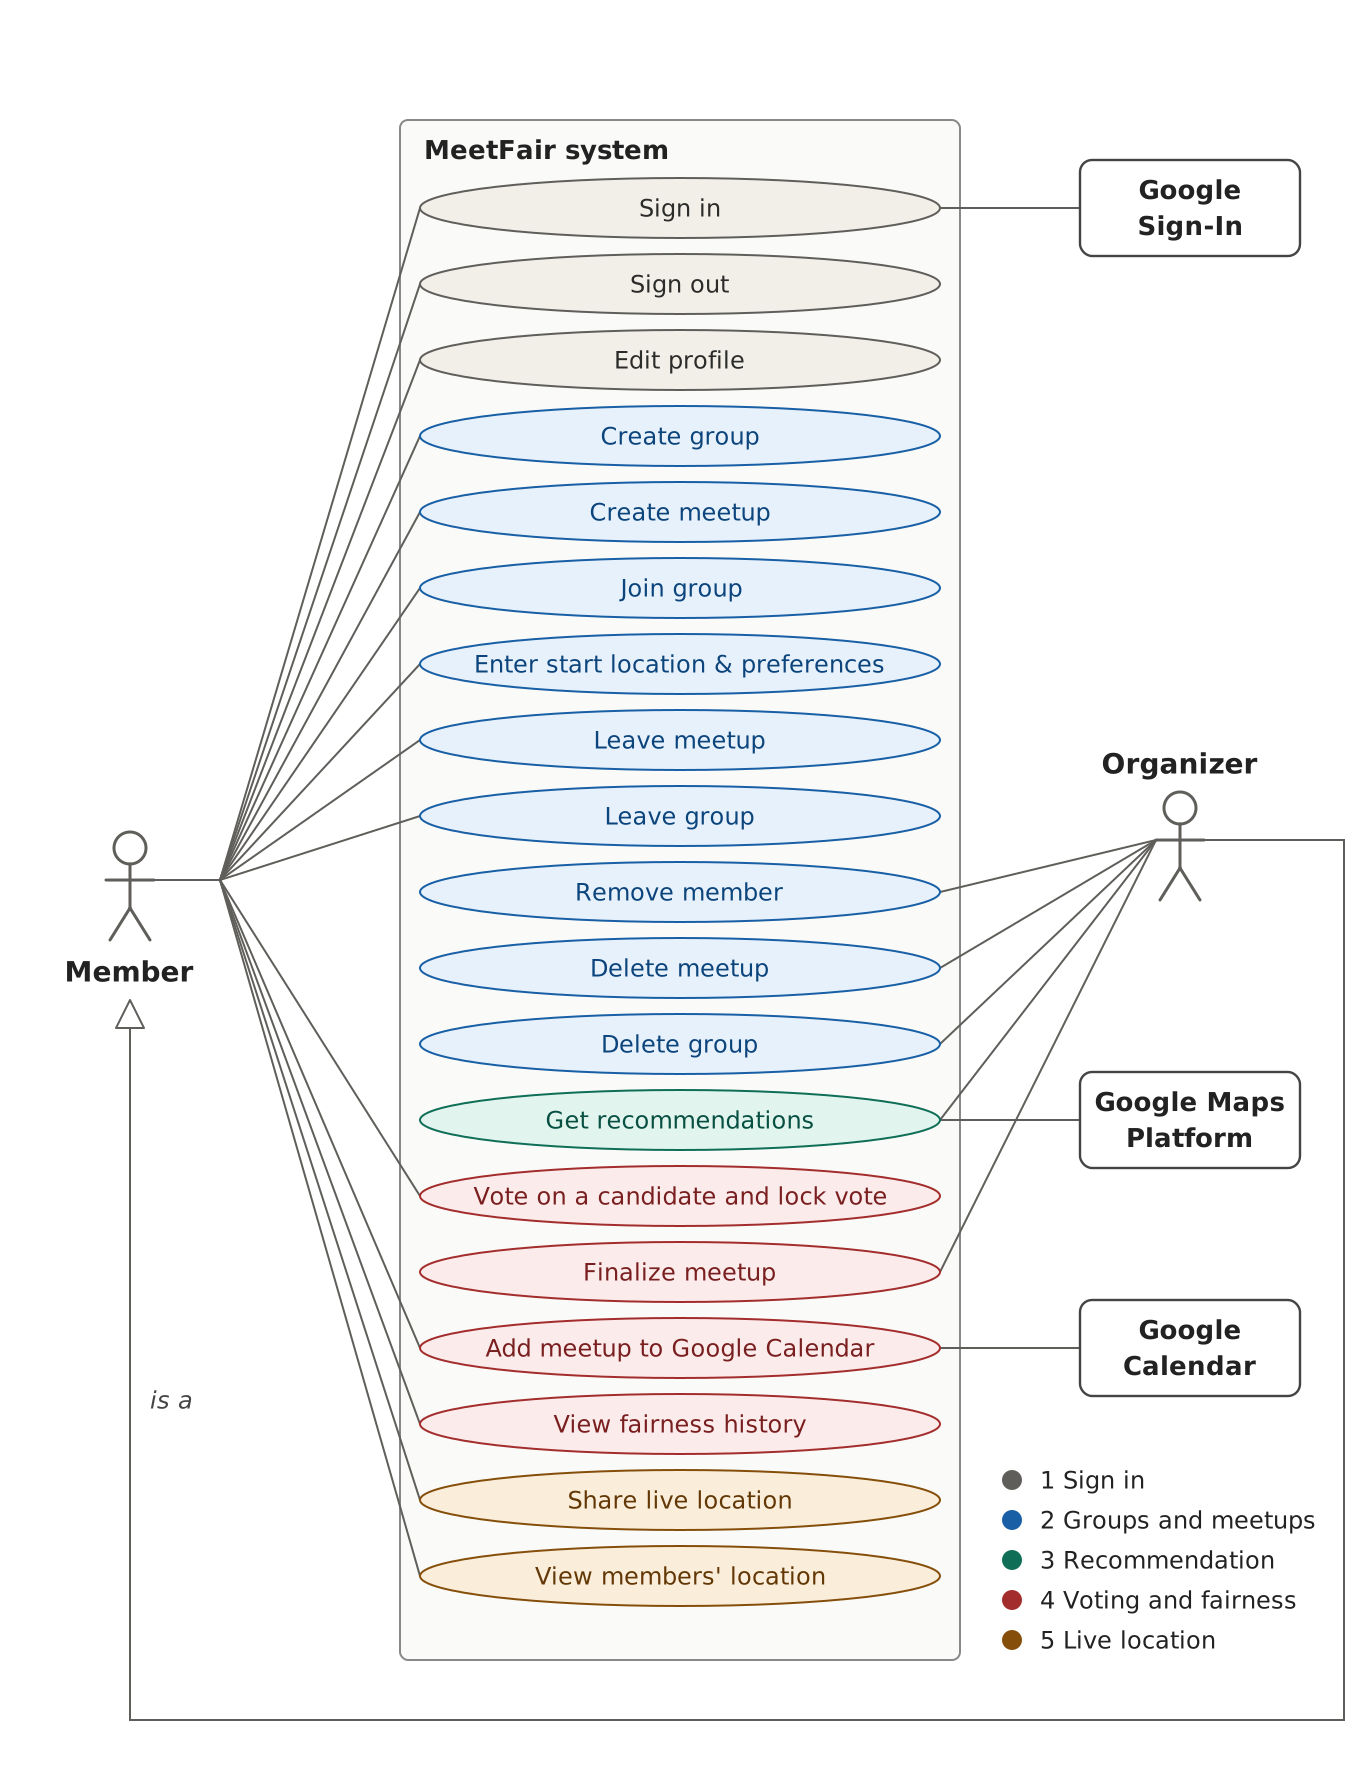
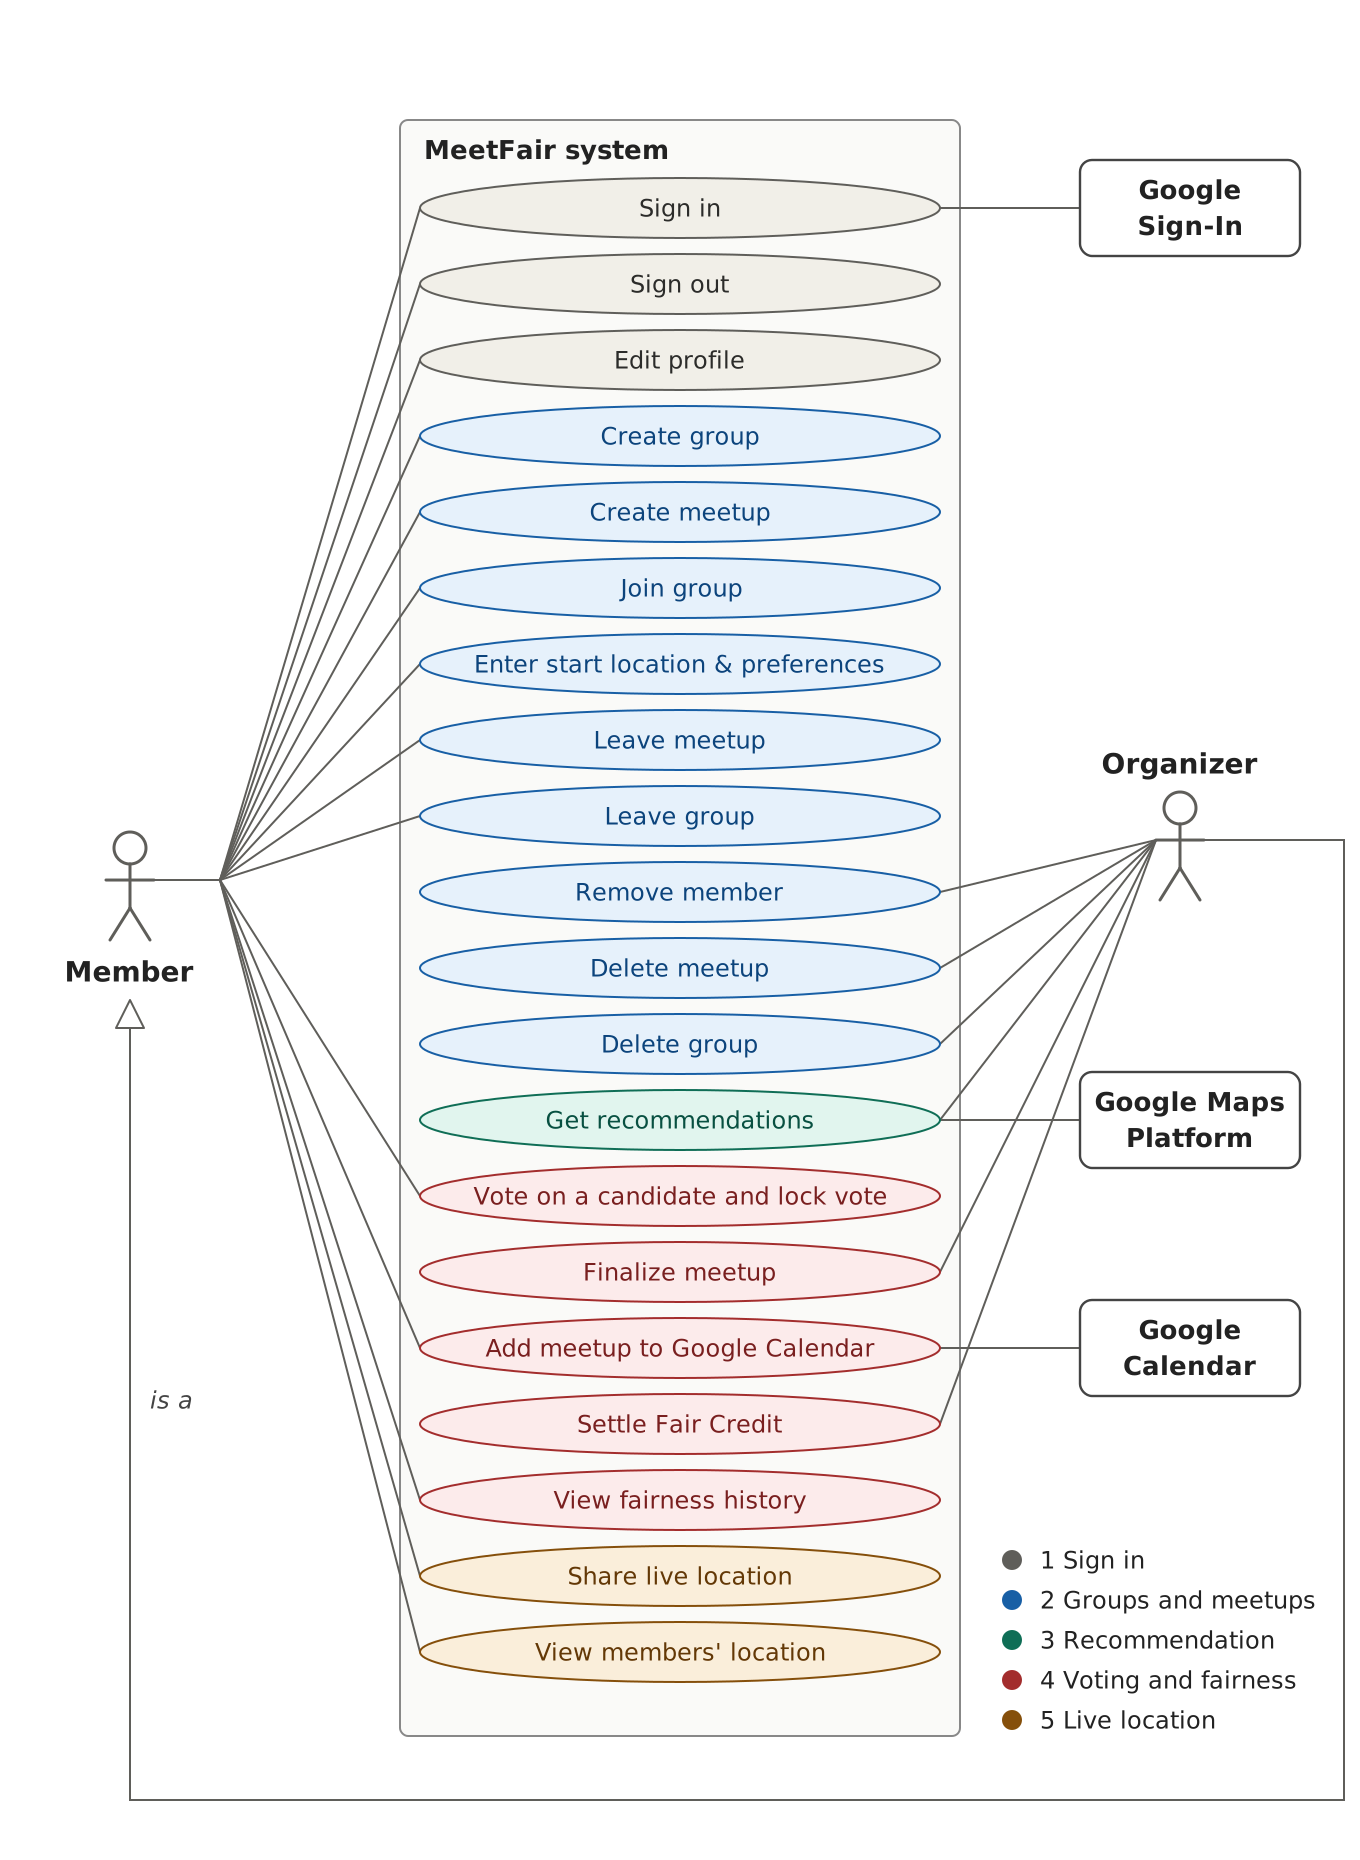
docs: add missing "Settle Fair Credit" use case

diff --git a/documentation/Testing.md b/documentation/Testing.md
@@ -40,7 +40,7 @@
 | **GET /api/meetups/:meetupId/votes**             | [`backend/tests/no-mock/voting.test.ts`](../backend/tests/no-mock/voting.test.ts)          | [`backend/tests/mock/voting.test.ts`](../backend/tests/mock/voting.test.ts)             | MongoDB Vote Collection (`VoteModel.find`), Recommendation Service (`recommendationService.getByMeetupId`) |
 | **POST /api/meetups/:meetupId/finalize**         | [`backend/tests/no-mock/voting.test.ts`](../backend/tests/no-mock/voting.test.ts)          | [`backend/tests/mock/voting.test.ts`](../backend/tests/mock/voting.test.ts)            | MongoDB Meetup Collection (`MeetupModel.findOneAndUpdate`), Recommendation Service (`recommendationService.getByMeetupId`) |
 | **tally / winner selection** *(internal)*        | [`backend/tests/unit/tally.test.ts`](../backend/tests/unit/tally.test.ts); [`backend/tests/no-mock/voting.test.ts`](../backend/tests/no-mock/voting.test.ts) | N/A | Pure tally and tie-breaking rules; no external dependencies |
-| **POST /api/meetups/:meetupId/settle**            | [`backend/tests/no-mock/settlement.test.ts`](../backend/tests/no-mock/settlement.test.ts) | N/A | Trip and Fair Credit settlement state |
+| **POST /api/meetups/:meetupId/settle**            | [`backend/tests/no-mock/settlement.test.ts`](../backend/tests/no-mock/settlement.test.ts) | N/A | Settlement eligibility, active-trip blocking, repeated and concurrent request idempotency, and recovery after partial failures |
 | **POST /api/meetups/:meetupId/calendar-event**   | [`backend/tests/no-mock/calendar.test.ts`](../backend/tests/no-mock/calendar.test.ts)         | [`backend/tests/mock/calendar.test.ts`](../backend/tests/mock/calendar.test.ts)           | Google Calendar Client (`calendarClient.createEvent`) |
 | **GET /api/users/me/profile**                    | [`backend/tests/no-mock/profile.test.ts`](../backend/tests/no-mock/profile.test.ts)          | [`backend/tests/mock/profile.test.ts`](../backend/tests/mock/profile.test.ts)            | MongoDB Fair Credit Collection (`FairCreditModel.find`), Group Service (`groupService.listForUser`) |
 | **PUT /api/users/me/profile**                    | [`backend/tests/no-mock/profile.test.ts`](../backend/tests/no-mock/profile.test.ts)          | [`backend/tests/mock/profile.test.ts`](../backend/tests/mock/profile.test.ts)            | MongoDB User Collection (`UserModel.findByIdAndUpdate`) |
@@ -371,7 +371,7 @@ Covers the Vote on a Candidate and Lock Vote use case.
 
 #### 4.2.3. Feature 4: Voting and Fairness (2) ([`FinalizeMeetupTest.kt`](../frontend/app/src/androidTest/java/com/example/cpen321application/e2e/FinalizeMeetupTest.kt))
 
-Covers formal Use Case 4 (Finalize Meetup), Calendar integration, and Section 3.4 Use Case 5 (View Fairness History).
+Covers Feature 4 use cases Finalize Meetup, Add Meetup to Google Calendar, View Fairness History, and Settle Fair Credit. The settlement and populated-history E2E flow is in [`ShareLiveLocationTest.kt`](../frontend/app/src/androidTest/java/com/example/cpen321application/e2e/ShareLiveLocationTest.kt), because it exercises the completed live trip before settlement.
 
 - **Expected Behaviors (Automated Single-User):**
 
@@ -425,7 +425,6 @@ Covers formal Use Case 4 (Finalize Meetup), Calendar integration, and Section 3.
   | **Failure 6a: Google Calendar consent canceled** (Use Case 4 Failure 6a) | On finalized meetup, tap "Add to Google Calendar". When the Google account permission prompt opens, tap "Cancel" or system Back. | App displays *"Google Calendar permission request was canceled."* and keeps the button enabled for retry. | Google OAuth permission dialog is an external Google Play Services / Chrome Custom Tab activity outside Compose test inspection. |
   | **Failure 7a: Google Calendar API rate limit / server failure** (Use Case 4 Failure 7a) | Simulate Google API error (e.g. 429 quota exhaustion) and tap "Add to Google Calendar". | App displays the error reason (e.g. *"Google Calendar API rate limit reached. Please retry in a few minutes."*); no event ID is saved. | Live Google API quota exhaustion cannot be triggered in automated production tests without risking quota throttling. Verified via mocks in [`calendar.test.ts`](../backend/tests/mock/calendar.test.ts). |
   | **Calendar Failure 7b: duplicate event request** (Use Case 4 Failure 7b) | Add a finalized meetup once through the GUI and verify it appears as "In calendar". The app replaces `add_to_calendar_button` with this status, so the GUI cannot submit a second add request. For the duplicate-request check, submit the same Calendar event request again using the meetup ID and an authorized access token. | The GUI shows "In calendar" after the first add. The repeated API request returns *"This meetup is already in your calendar"*. The request assertion in `calendar_duplicateEvent` is automated, but it is API-level; the GUI behavior remains a manual check. | The current UI removes the add button after success. The instrumentation method submits a repository request directly and does not exercise a second GUI tap. Backend behavior is covered in [`calendar.test.ts`](../backend/tests/no-mock/calendar.test.ts). |
-  | **View Fairness History: Settled meetup ledger entries** (Section 3.4 Use Case 5) | Complete a meetup through arrival, then as organizer trigger "Settle Fair Credit". Open Group Details -> "Fair Credits". | Screen displays the settled meetup ledger entry with commute duration, group average, and net credit adjustment. | `shareLocation_startTripArrive` checks arrival but does not settle or inspect the ledger. Settlement is currently covered by backend tests in [`settlement.test.ts`](../backend/tests/no-mock/settlement.test.ts); the complete GUI flow remains manual. |
 
 ---
 
@@ -437,12 +436,13 @@ Covers Share Live Location and View Members' Location.
 
   | **Scenario Steps** | **Test Case Steps** |
   | ------------------ | ------------------- |
-  | **Main Success Scenario: start trip, share live location, and arrive (steps 1–8)** (`shareLocation_startTripArrive`) | |
+  | **Main Success Scenario: start trip, share live location, arrive and settle Fair Credit (steps 1–9)** (`shareLocation_startTripArriveAndSettleFairCredit`) | |
   | 1. The participant opens the finalized meetup at its scheduled time. | Open finalized meetup scheduled 1 minute ahead. Wait for `leaving_button` ("I am leaving") to become available upon meetup time arrival, and click it. |
   | 2. The participant confirms live location sharing in the disclosure dialog. | Wait for "Share your live location?" explanation dialog. Click `share_trip_confirm` ("Share and start trip"). |
   | 3-4. System requests and participant grants runtime location permission. | Handle Android runtime permission prompt if presented ("While using the app"). |
   | 5-6. System starts trip, records start time, and shares live updates. | Open live location view. Check that `location_sharing_indicator` and `trip_status_text` ("On the way") are displayed. |
   | 8. The participant selects "I arrived"; system records arrival and stops sharing. | Click `arrived_button`. If the "Have you arrived?" confirmation appears, confirm "I arrived". Check that `trip_status_text` updates to "Arrived", `commute_duration_text` is displayed, and `location_sharing_indicator` is removed. |
+  | 9. The organizer settles Fair Credit and checks the updated history. | Confirm the settle dialog, then open Group Details -> "Fair Credits". Verify the meetup ledger entry and its expanded trip and group-average details. |
   | **Failure 1a: before scheduled meetup time** (`shareLocation_beforeMeetupTime`) | |
   | 1a. The participant views the finalized meetup 10 minutes before scheduled time. | Create and finalize a meetup scheduled 10 minutes in the future. Open the meetup screen. |
   | 1a1. The app does not offer "I am leaving". | Check that the button with test tag `leaving_button` does not exist. |
@@ -454,6 +454,8 @@ Covers Share Live Location and View Members' Location.
   | 6a/6b. Network drops while sharing live location during an active trip. | Start trip with live sharing active. Enable airplane mode with UiDevice. |
   | 6a1/6b1. The app displays connection loss and retry notices while keeping sharing active. | Wait for and check "Live connection unavailable. Refreshing periodically." (6a) and "Location update failed. Retrying..." (6b). Check that `location_sharing_indicator` remains displayed. |
   | 6a2/6b2. Connectivity is restored; sharing automatically resumes. | Disable airplane mode. Wait for sharing indicator to confirm recovery ("Sharing your live location" or "Waiting for a fresh location fix..."). |
+
+**Failure 9a: repeated settlement request (automated backend API coverage, not Android E2E).** The no-mock settlement suite submits repeated and concurrent `POST /api/meetups/:meetupId/settle` requests. [`concurrent settlement requests apply each balance change once`](../backend/tests/no-mock/settlement.test.ts) verifies that requests do not duplicate Fair Credit entries or balance changes; the main settlement test also retries a successful request and checks that the ledger remains unchanged. This is API-level coverage because the app removes the settle action after success, so the UI does not offer a second tap.
 
 - **Multi-User Interactive Scenarios (`--multi-user`):**
 
@@ -468,7 +470,6 @@ Covers Share Live Location and View Members' Location.
 
   | **Requirement / Use Case** | **Manual Test Procedure** | **Pass Criterion** | **Technical Justification for Manual Verification** |
   | -------------------------- | -------------------------- | ------------------ | --------------------------------------------------- |
-  | **Failure 9a: Settlement requested more than once** (Use Case 5 Failure 9a) | After the organizer settles Fair Credit, submit the settlement request again. | The second request is rejected and does not apply duplicate Fair Credit updates. | This is currently backend-only; the idempotency behavior is verified in [`settlement.test.ts`](../backend/tests/no-mock/settlement.test.ts). |
   | **View Members' Location: Real-time map marker movement** (Section 3.4 Use Case 2) | Member A shares location and moves (or simulates GPS route updates via `adb emu geo fix`). Member B views the live map on Device B. | Member B's map renders Member A's pin marker moving smoothly to the updated location in real time. | Real-time map marker position interpolation across two devices requires continuous mock GPS hardware streams. Live transit status synchronization is automated in `shareLocation_anotherMemberSeesTripStatus`; coordinate-free realtime events are verified in [`location-privacy.test.ts`](../backend/tests/nfr/location-privacy.test.ts). |
   | **Live Commute Tracking: Ongoing notification & lockscreen privacy** (Requirements Section 3.7 & LOC-5) | Start live trip. Pull down notification shade. Lock device and inspect lockscreen notification. | Ongoing notification persists, displays transit status, offers quick actions ("Pause sharing", "I arrived"), and redacts private coordinates on the lockscreen. | System notification tray and lockscreen UI belong to Android OS System UI; verified by dedicated NFR tests in [`LocationPrivacyNotificationTest.kt`](../frontend/app/src/androidTest/java/com/example/cpen321application/nfr/LocationPrivacyNotificationTest.kt). |
 

diff --git a/documentation/Requirements_and_Design.md b/documentation/Requirements_and_Design.md
@@ -7,6 +7,7 @@
 | 2026-10-19 | All Sections | Initial submission for CP1 |
 | 2026-11-04 | 3.1-3.7, 4.1-4.7 | CP2: updated requirements, use cases, APIs, and architecture for group management, meetup scheduling and participation, Places/Routes recommendations, weighted voting, Fair Credit settlement, and live-trip tracking; clarified validation, permissions, privacy, refresh, notifications, and edge cases; added approximate screen mock-ups; documented the `settlements` collection; updated the dependency and sequence diagrams; and fixed a typo in feature 5. |
 | 2026-11-19 | 3.1-3.2, 3.5, 3.7, 4.1, 4.3, 4.5-4.7 | CP3: Addressed TA feedback by moving refresh and notifications to usability design, making Create Group Formal Use Case 2 and updating diagrams, and removing Health Check from the business component decomposition. Replaced the accessibility validation plan with a viewport/font-scale matrix, TalkBack workflows and explicit pass/fail criteria. Added venue-local opening-hours filtering before recommendation ranking, insufficient confirmed-open venue handling and Google field/billing implications |
+| 2026-11-27 | 3.4-3.5 | Clarified that repeated or concurrent settlement requests must not apply Fair Credit changes more than once. |
 ---
 
 ## 2. Project Description
@@ -67,6 +68,7 @@ MeetFair is a group meetup planning app designed to make repeated meetups more c
 2. **Finalize Meetup**: The organizer closes the voting and the system determines the winning location.
 3. **Add Meetup to Google Calendar**: A member adds the finalized meetup at the winning location to their own Google Calendar.
 4. **View Fairness History**: A member checks their profile and, for a specific group, every member's Fair Credit and their own past credit changes.
+5. **Settle Fair Credit**: After the finalized meetup time has arrived and all current members' trips have ended, the meetup organizer settles Fair Credit. The system uses tracked commute durations when available and stored or calculated travel-time estimates otherwise, saves a settlement snapshot, updates members' balances and history, and marks the meetup SETTLED. A repeated request does not apply credit changes again.
 
 - Use cases for feature 5: Live Location
 
@@ -262,8 +264,8 @@ MeetFair is a group meetup planning app designed to make repeated meetups more c
 - 6b. A location update fails.
   - 6b1. The system displays "Location update failed. Retrying..." and tries again while the trip is still active.
 
-- 9a. Settlement is requested more than once.
-  - 9a1. The system prevents duplicate Fair Credit changes for the same participant and meetup.
+- 9a. Settlement is requested more than once, including concurrent retries.
+  - 9a1. The system completes settlement without applying duplicate Fair Credit balance or ledger changes for any participant in that meetup.
 
 ### **3.6. Screen Mock-ups**
 
